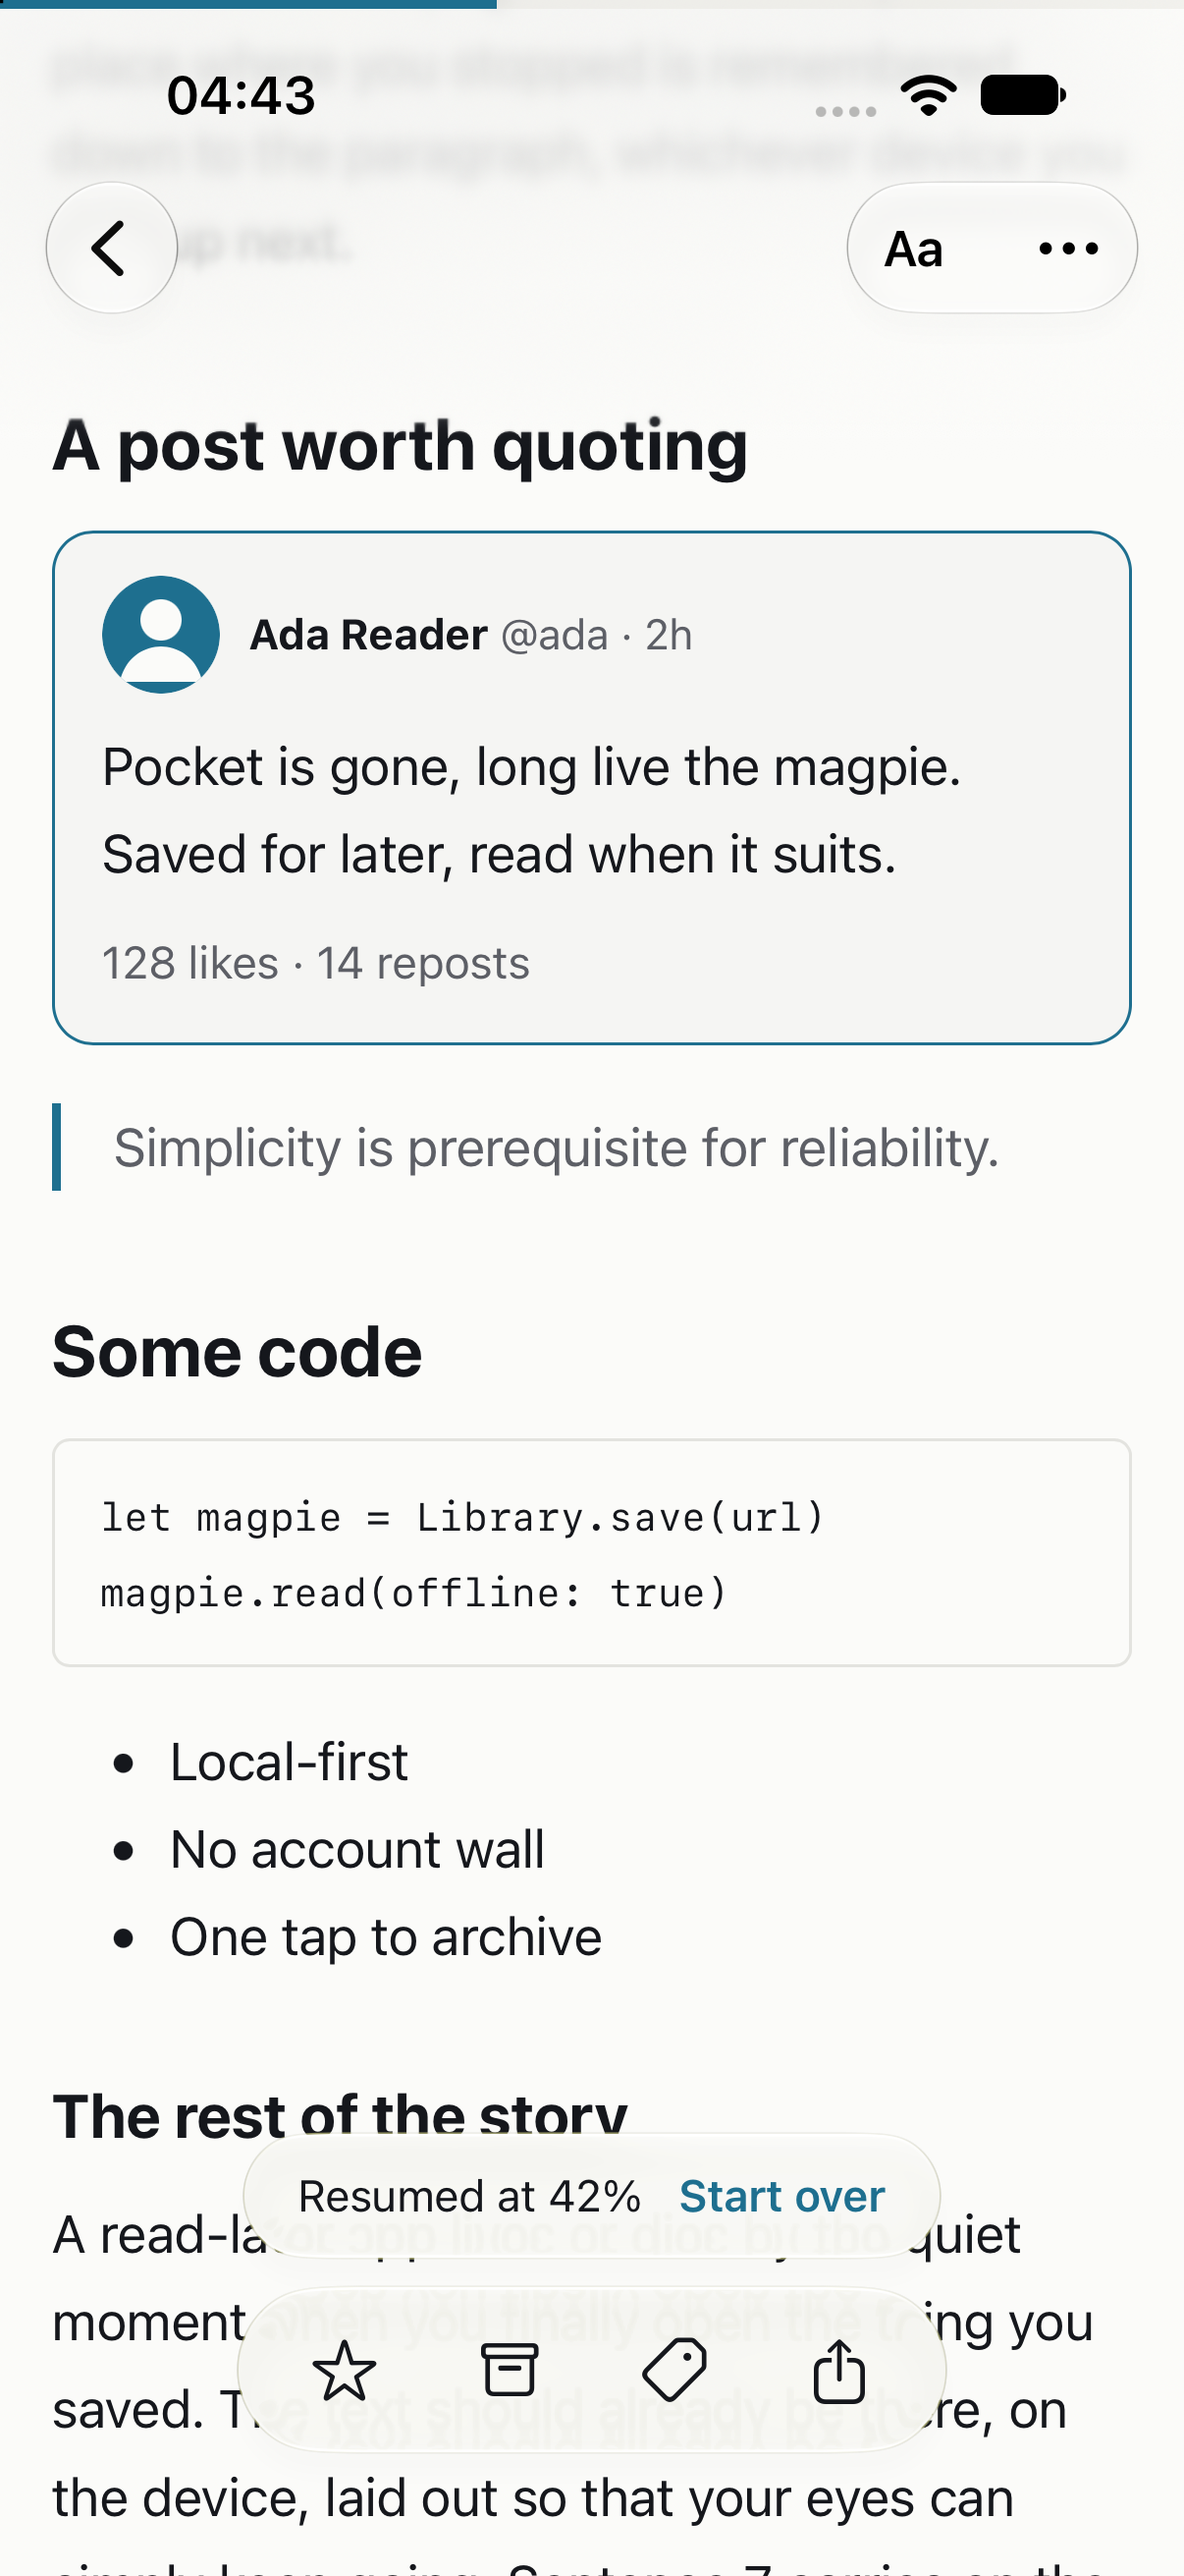
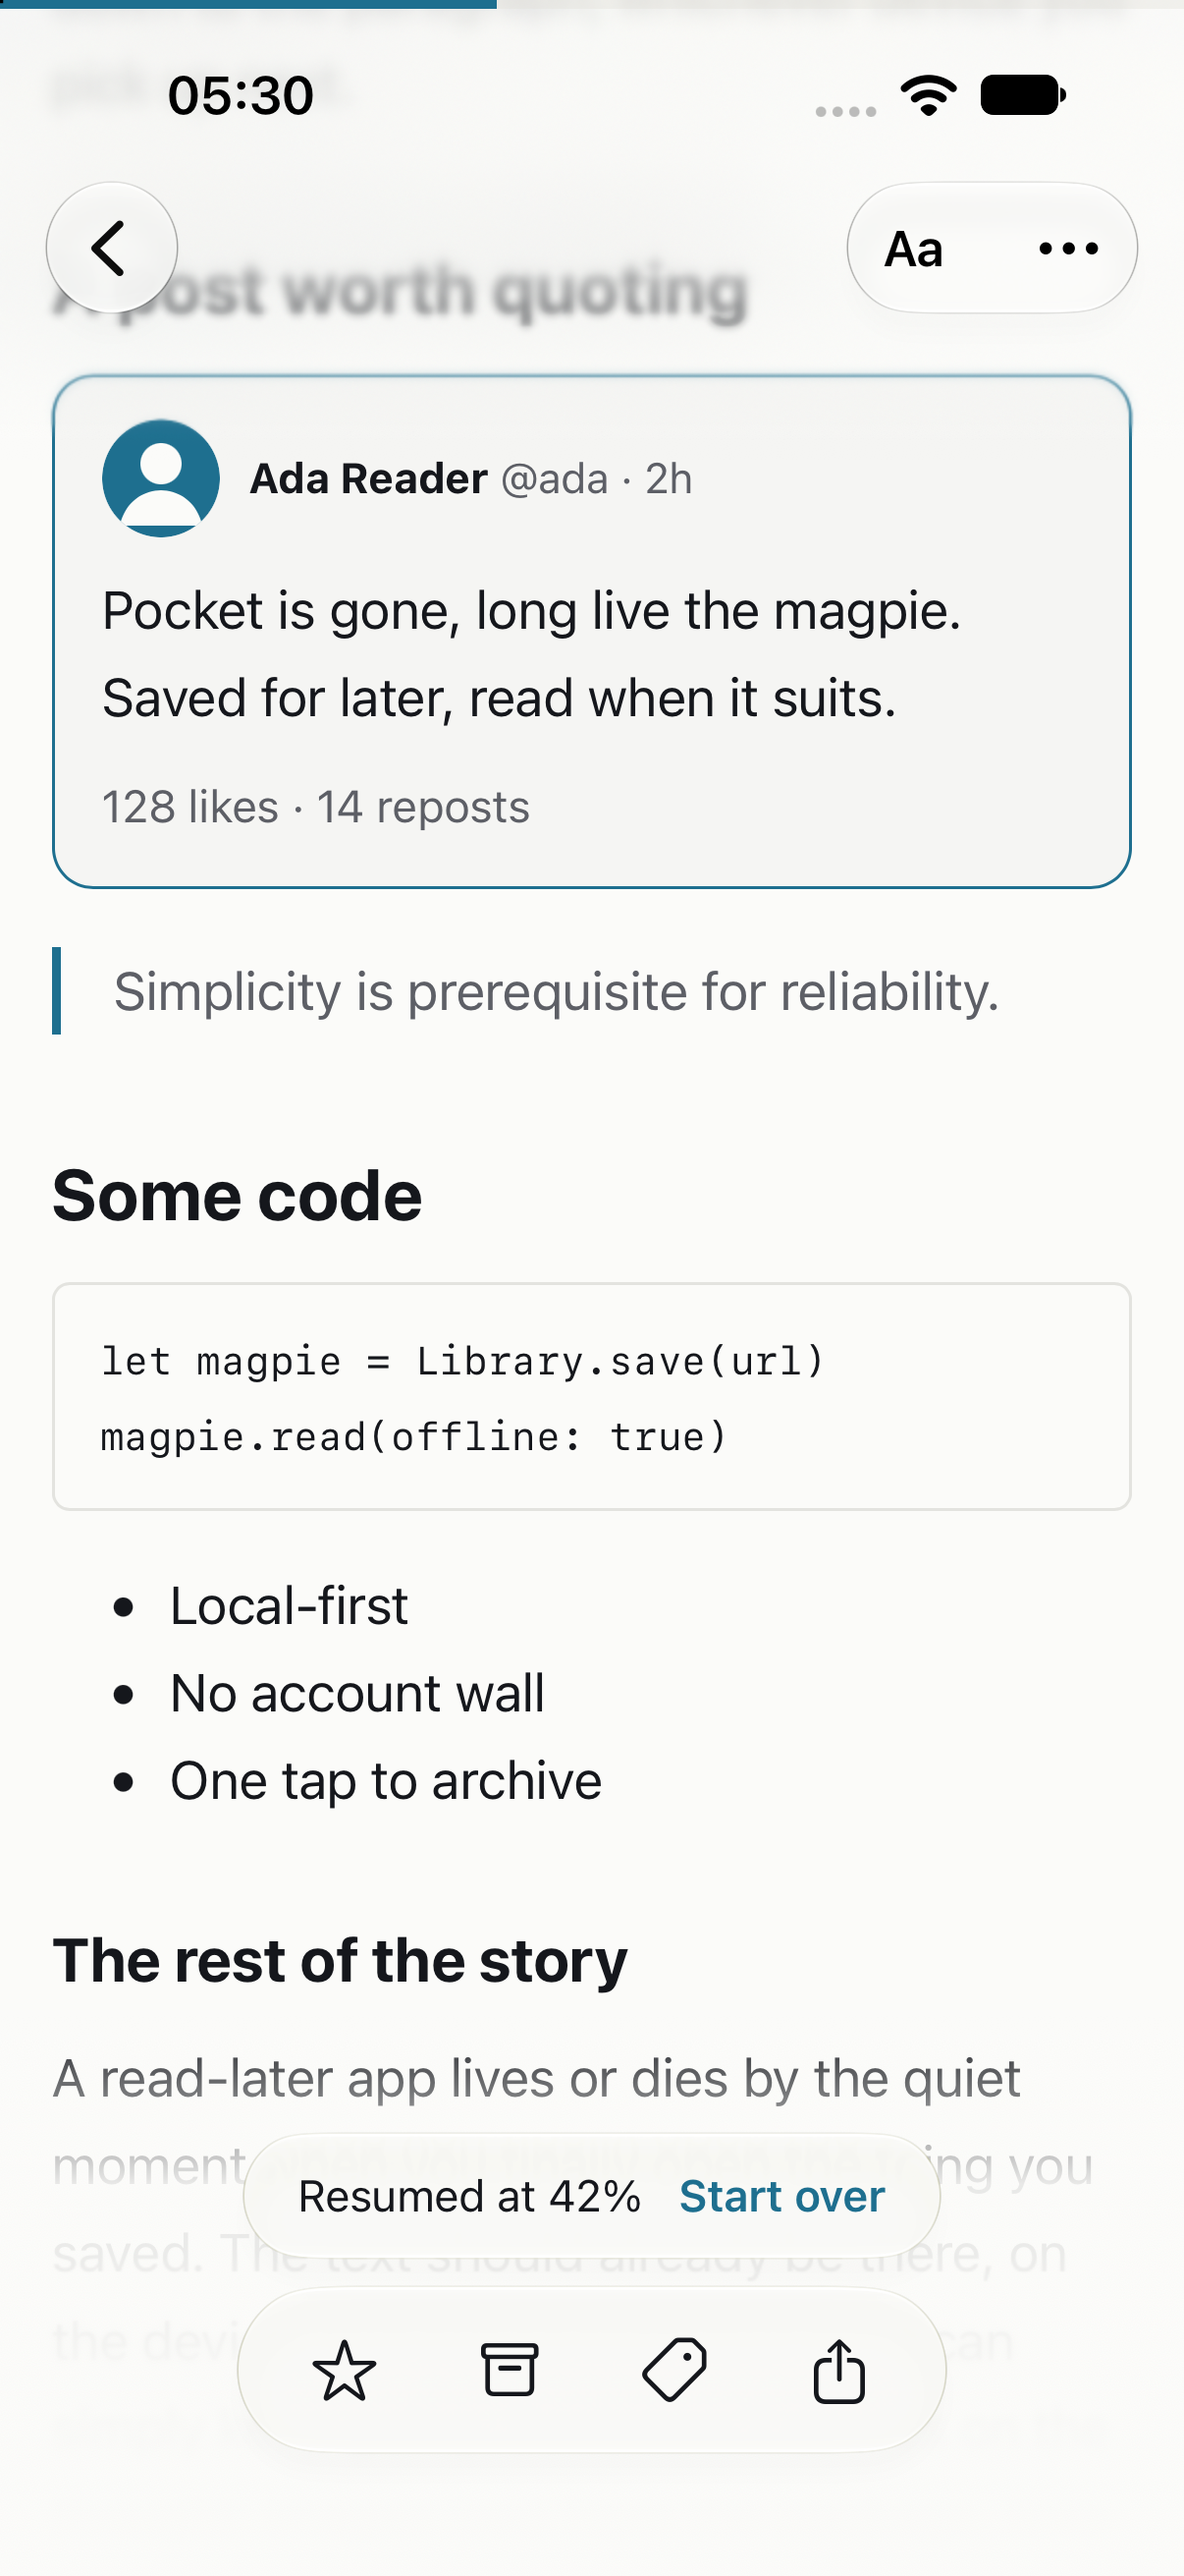
fix(ios): keep the reader's floating glass legible over body text
The bottom bar and toast move into a safeAreaBar so the system scroll-edge effect softens the text behind them,
with a short page-coloured scrim under them for the rest. Retake the reader shots in light, dark and sepia.

diff --git a/apps/ios/Modules/Sources/ReaderFeature/ReaderChrome.swift b/apps/ios/Modules/Sources/ReaderFeature/ReaderChrome.swift
@@ -33,6 +33,28 @@ extension View {
     }
 }
 
+/// A short page-coloured fade under the floating chrome. The system's scroll-edge effect blurs the text there; the
+/// scrim takes what is left of it, so labels and icons never sit on smeared words. It spans the screen's width,
+/// starts 40 pt above the chrome and runs to the bottom edge, behind the home indicator.
+struct ReaderChromeScrim: View {
+    let theme: EffectiveTheme
+
+    var body: some View {
+        LinearGradient(
+            stops: [
+                .init(color: theme.palette.background.opacity(0), location: 0),
+                .init(color: theme.palette.background.opacity(0.92), location: 0.3),
+                .init(color: theme.palette.background.opacity(0.97), location: 1),
+            ],
+            startPoint: .top, endPoint: .bottom
+        )
+        .padding(.top, -40)
+        .ignoresSafeArea(edges: .bottom)
+        .allowsHitTesting(false)
+        .accessibilityHidden(true)
+    }
+}
+
 /// Floating glass bar: favorite, archive, tags, share.
 struct ReaderBottomBar<ShareContent: View>: View {
     let theme: EffectiveTheme

diff --git a/apps/ios/Modules/Sources/ReaderFeature/ReaderView.swift b/apps/ios/Modules/Sources/ReaderFeature/ReaderView.swift
@@ -63,7 +63,7 @@ struct ReaderScreen: View {
                 ReaderProgressLine(progress: model.progress, theme: theme).ignoresSafeArea(edges: .top)
             }
         }
-        .overlay(alignment: .bottom) {
+        .safeAreaBar(edge: .bottom) {
             ReaderBottomOverlay(model: model, theme: theme, isChromeVisible: isChromeVisible)
         }
         .animation(.snappy, value: isChromeVisible)
@@ -190,6 +190,15 @@ private struct ReaderBottomOverlay: View {
         }
         .environment(\.colorScheme, theme.isDark ? .dark : .light)
         .padding(.bottom, 8)
+        .frame(maxWidth: .infinity)
+        .background(alignment: .bottom) {
+            if hasChrome { ReaderChromeScrim(theme: theme) }
+        }
+    }
+
+    /// Something floats above the page (toast, end card or the bar), so the page needs the scrim.
+    private var hasChrome: Bool {
+        model.toast != nil || model.isEndCardShown || (isChromeVisible && model.isReaderShown && model.item != nil)
     }
 
     private var chrome: some View {
